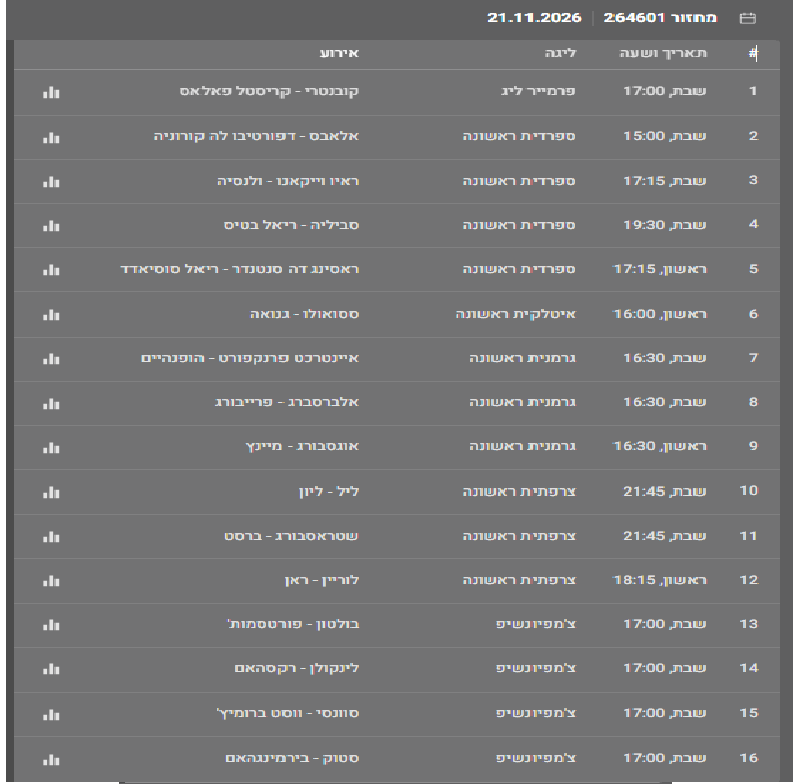
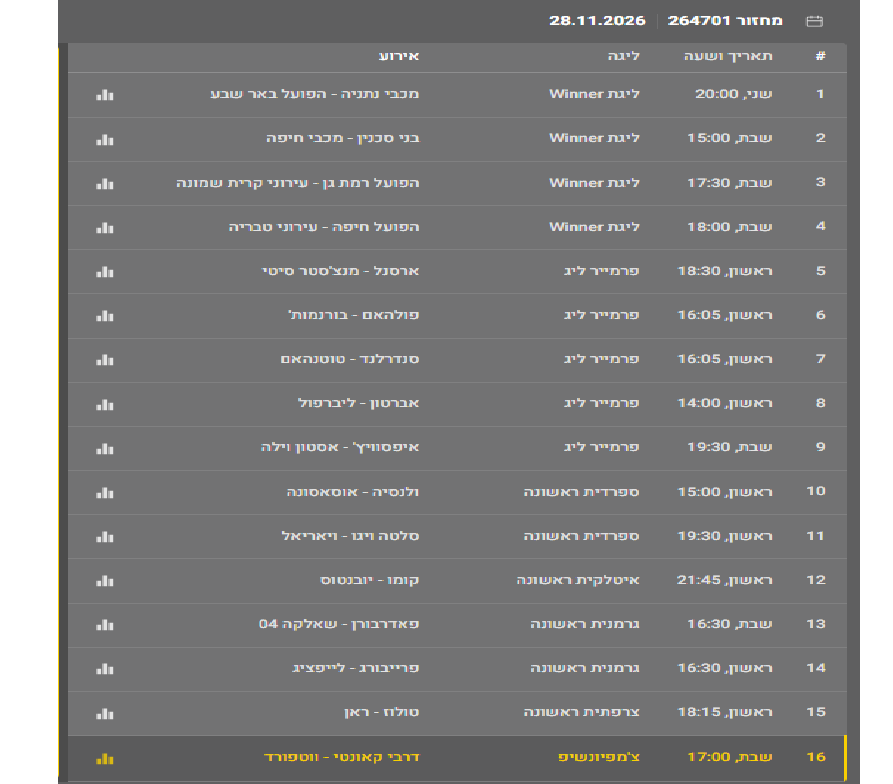
Update winwin slides with new fixtures round from games.txt

diff --git a/winwin/index.html b/winwin/index.html
@@ -141,113 +141,113 @@
 
         <section class="game-slide">
           <div class="game-title">משחק 1</div>
-          <div class="game-matchup">קובנטרי - קריסטל פאלאס</div>
-          <div class="game-body">קריסטל פאלאס מגיעה מהמעמד הגבוה יותר ובדרך כלל נהנית מסגל עמוק ואיכותי יותר. גם במשחק חוץ היא מסוגלת לשלוט בקצב ולייצר יותר מצבים. קובנטרי יריבה ראויה, אך פער האיכות נוטה לצד האורחת.</div>
+          <div class="game-matchup">מכבי נתניה - הפועל באר שבע</div>
+          <div class="game-body">באר שבע מגיעה בדרך כלל עם סגל עמוק יותר ויכולת גבוהה יותר ברוב העמדות. נתניה מסוגלת להקשות בבית, אך לאורך זמן היתרון האיכותי נוטה לצד האורחת.</div>
           <div class="game-recommendation">ההמלצה : 2</div>
         </section>
 
         <section class="game-slide">
           <div class="game-title">משחק 2</div>
-          <div class="game-matchup">אלאבס - דפורטיבו לה קורוניה</div>
-          <div class="game-body">אלאבס נהנית מיתרון ביתיות משמעותי ומגיעה מליגה ותחרותיות גבוהות יותר. דפורטיבו עדיין מנסה לבסס יציבות מול יריבות חזקות. לכן היתרון נמצא אצל המארחת.</div>
-          <div class="game-recommendation">ההמלצה : 1</div>
-        </section>
-
-        <section class="game-slide">
-          <div class="game-title">משחק 3</div>
-          <div class="game-matchup">ראיו וייקאנו - ולנסיה</div>
-          <div class="game-body">שתי קבוצות שיכולות לבטל זו את זו מבחינה טקטית. ראיו חזקה בביתה, אך ולנסיה מספיק איכותית כדי להימנע מהפסד. לכן התיקו נראה תרחיש סביר מאוד.</div>
-          <div class="game-recommendation">ההמלצה : 1X</div>
-        </section>
-
-        <section class="game-slide">
-          <div class="game-title">משחק 4</div>
-          <div class="game-matchup">סביליה - ריאל בטיס</div>
-          <div class="game-body">מדובר בדרבי טעון שבו לרוב פערי האיכות פחות משמעותיים. סביליה נהנית מהביתיות, אך משחקים כאלה נוטים להיות שקולים וזהירים. קשה לראות ניצחון חוץ ברור.</div>
-          <div class="game-recommendation">ההמלצה : 1X</div>
-        </section>
-
-        <section class="game-slide">
-          <div class="game-title">משחק 5</div>
-          <div class="game-matchup">ראסינג סנטנדר - ריאל סוסיאדד</div>
-          <div class="game-body">לסוסיאדד סגל איכותי ומאוזן יותר. היא רגילה להתמודד ברמות הגבוהות של הכדורגל הספרדי ומחזיקה יתרון מקצועי ברוב העמדות. לכן סימון החוץ עדיף.</div>
+          <div class="game-matchup">בני סכנין - מכבי חיפה</div>
+          <div class="game-body">חיפה עדיפה כמעט בכל פרמטר מקצועי ומחזיקה בסגל רחב ומנוסה יותר. אם תשמור על ריכוז, היא אמורה לקחת את מלוא הנקודות.</div>
           <div class="game-recommendation">ההמלצה : 2</div>
         </section>
 
         <section class="game-slide">
+          <div class="game-title">משחק 3</div>
+          <div class="game-matchup">הפועל רמת גן - קרית שמונה</div>
+          <div class="game-body">פערי הרמות והניסיון משחקים לטובת קרית שמונה. במשחקי גביע והכרעה יש לה בדרך כלל יתרון באיכות הסגל.</div>
+          <div class="game-recommendation">ההמלצה : 2</div>
+        </section>
+
+        <section class="game-slide">
+          <div class="game-title">משחק 4</div>
+          <div class="game-matchup">הפועל חיפה - עירוני טבריה</div>
+          <div class="game-body">להפועל חיפה יתרון ביתיות וניסיון בליגה הבכירה. טבריה יכולה להיות יריבה עיקשת, אך המארחת נראית עדיפה.</div>
+          <div class="game-recommendation">ההמלצה : 1</div>
+        </section>
+
+        <section class="game-slide">
+          <div class="game-title">משחק 5</div>
+          <div class="game-matchup">ארסנל - מנצ'סטר סיטי</div>
+          <div class="game-body">מפגש צמרת קלאסי בין שתי קבוצות מהחזקות באירופה. ארסנל חזקה מאוד בבית, אך סיטי מסוגלת להוציא נקודות מכל מגרש.</div>
+          <div class="game-recommendation">ההמלצה : 1X</div>
+        </section>
+
+        <section class="game-slide">
           <div class="game-title">משחק 6</div>
-          <div class="game-matchup">ססואולו - גנואה</div>
-          <div class="game-body">ססואולו בדרך כלל משחקת כדורגל יוזם יותר בביתה. גנואה יריבה עקשנית שמסוגלת לחלץ נקודות גם בחוץ. לכן מומלץ לגבות את ניצחון הבית בתיקו.</div>
+          <div class="game-matchup">פולהאם - בורנמות'</div>
+          <div class="game-body">שתי קבוצות ברמה דומה יחסית ולכן קשה לזהות פייבוריט ברור. הביתיות מעניקה יתרון קל לפולהאם אך תיקו בהחלט בא בחשבון.</div>
           <div class="game-recommendation">ההמלצה : 1X</div>
         </section>
 
         <section class="game-slide">
           <div class="game-title">משחק 7</div>
-          <div class="game-matchup">איינטרכט פרנקפורט - הופנהיים</div>
-          <div class="game-body">פרנקפורט חזקה מאוד במשחקי הבית שלה ומייצרת לחץ התקפי מתמשך. הופנהיים מסוגלת להבקיע, אך לרוב מתקשה מול יריבות איכותיות בחוץ.</div>
-          <div class="game-recommendation">ההמלצה : 1</div>
+          <div class="game-matchup">סנדרלנד - טוטנהאם</div>
+          <div class="game-body">לטוטנהאם יתרון משמעותי באיכות ובהתקפה. אם תשחק ברמתה הרגילה היא אמורה לנצח.</div>
+          <div class="game-recommendation">ההמלצה : 2</div>
         </section>
 
         <section class="game-slide">
           <div class="game-title">משחק 8</div>
-          <div class="game-matchup">אלברסברג - פרייבורג</div>
-          <div class="game-body">פרייבורג מחזיקה ניסיון ואיכות ברמה גבוהה יותר. גם בחוץ היא מסוגלת לנהל משחק בצורה אחראית ולנצל טעויות. היתרון המקצועי נוטה אליה.</div>
+          <div class="game-matchup">אברטון - ליברפול</div>
+          <div class="game-body">למרות שמדובר בדרבי טעון, לליברפול איכות גבוהה יותר כמעט בכל עמדה. משחקים כאלה לעיתים צמודים, אך היתרון עדיין אצל האורחת.</div>
           <div class="game-recommendation">ההמלצה : 2</div>
         </section>
 
         <section class="game-slide">
           <div class="game-title">משחק 9</div>
-          <div class="game-matchup">אוגסבורג - מיינץ</div>
-          <div class="game-body">זהו אחד המשחקים המאוזנים במחזור. שתי הקבוצות מציגות לעיתים חוסר יציבות ולכן קשה להכריע ביניהן. מיינץ מעט עדיפה אך התיקו בהחלט בא בחשבון.</div>
-          <div class="game-recommendation">ההמלצה : X2</div>
+          <div class="game-matchup">איפסוויץ' - אסטון וילה</div>
+          <div class="game-body">אסטון וילה מציגה בדרך כלל כדורגל איכותי יותר ומחזיקה בסגל עמוק יותר. איפסוויץ' תילחם, אך הנטייה היא לניצחון חוץ.</div>
+          <div class="game-recommendation">ההמלצה : 2</div>
         </section>
 
         <section class="game-slide">
           <div class="game-title">משחק 10</div>
-          <div class="game-matchup">ליל - ליון</div>
-          <div class="game-body">ליל נחשבת לקבוצה חזקה מאוד בביתה וממעטת לאבד שם נקודות. ליון מסוגלת להפתיע, אך בתקופה רגילה יתרון הביתיות מעניק לליל עדיפות.</div>
+          <div class="game-matchup">ולנסיה - אוסאסונה</div>
+          <div class="game-body">ולנסיה נהנית מיתרון ביתיות וממגרש ביתי לא פשוט ליריבות. אוסאסונה תחרותית, אך המארחת מקבלת עדיפות.</div>
           <div class="game-recommendation">ההמלצה : 1</div>
         </section>
 
         <section class="game-slide">
           <div class="game-title">משחק 11</div>
-          <div class="game-matchup">שטראסבורג - ברסט</div>
-          <div class="game-body">שטראסבורג נהנית מתמיכה ביתית חזקה ומגיעה בדרך כלל מוכנה למשחקים מסוג זה. ברסט מסוכנת, אך הביתיות נותנת יתרון למארחת.</div>
-          <div class="game-recommendation">ההמלצה : 1</div>
+          <div class="game-matchup">סלטה ויגו - ויאריאל</div>
+          <div class="game-body">זהו אחד המשחקים המאוזנים במחזור. ויאריאל מעט איכותית יותר על הנייר, אך לסלטה יש יתרון ביתיות ולכן הכיסוי המתבקש כולל גם תיקו.</div>
+          <div class="game-recommendation">ההמלצה : X2</div>
         </section>
 
         <section class="game-slide">
           <div class="game-title">משחק 12</div>
-          <div class="game-matchup">לוריין - ראן</div>
-          <div class="game-body">ראן מחזיקה סגל עמוק ואיכותי יותר כמעט בכל חוליה. גם בחוץ היא יודעת לייצר מצבים ולהכתיב קצב משחק. לכן סימון החוץ עדיף.</div>
+          <div class="game-matchup">קומו - יובנטוס</div>
+          <div class="game-body">יובנטוס עדיפה משמעותית מבחינת איכות, ניסיון ועומק סגל. איבוד נקודות כאן ייחשב הפתעה.</div>
           <div class="game-recommendation">ההמלצה : 2</div>
         </section>
 
         <section class="game-slide">
           <div class="game-title">משחק 13</div>
-          <div class="game-matchup">בולטון - פורטסמות'</div>
-          <div class="game-body">בולטון בדרך כלל מציגה יציבות גבוהה במשחקי הבית שלה. פורטסמות' יריבה חזקה, אך המגרש הביתי עשוי להכריע את ההתמודדות.</div>
+          <div class="game-matchup">פאדרבורן - שאלקה 04</div>
+          <div class="game-body">פאדרבורן נראית יציבה יותר במפגש הזה ומקבלת גם את יתרון הבית. שאלקה עדיין מסוגלת להפתיע אך אינה הבחירה המועדפת.</div>
           <div class="game-recommendation">ההמלצה : 1</div>
         </section>
 
         <section class="game-slide">
           <div class="game-title">משחק 14</div>
-          <div class="game-matchup">לינקולן - רקסהאם</div>
-          <div class="game-body">רקסהאם מחזיקה סגל תחרותי ושאפתני מאוד. עם זאת, משחק חוץ מול לינקולן עלול להיות מורכב ולכן כדאי לגבות גם בתיקו.</div>
+          <div class="game-matchup">פרייבורג - לייפציג</div>
+          <div class="game-body">לייפציג איכותית יותר, אך משחקי החוץ מול פרייבורג נוטים להיות מורכבים. לכן כדאי לכסות גם אפשרות של תיקו.</div>
           <div class="game-recommendation">ההמלצה : X2</div>
         </section>
 
         <section class="game-slide">
           <div class="game-title">משחק 15</div>
-          <div class="game-matchup">סוונסי - ווסט ברומיץ'</div>
-          <div class="game-body">ווסט ברומיץ' נוטה להיות מאורגנת ויעילה יותר. סוונסי מסוגלת להקשות בביתה, אך האיכות הכוללת של האורחת מעניקה לה יתרון.</div>
-          <div class="game-recommendation">ההמלצה : 2</div>
+          <div class="game-matchup">טולוז - ראן</div>
+          <div class="game-body">טולוז קבוצה ביתית לא פשוטה וראן נוטה לחוסר יציבות במשחקים מסוימים. בשל האיזון היחסי, גם תיקו הוא תרחיש סביר.</div>
+          <div class="game-recommendation">ההמלצה : 1X</div>
         </section>
 
         <section class="game-slide">
           <div class="game-title">משחק 16</div>
-          <div class="game-matchup">סטוק - בירמינגהאם</div>
-          <div class="game-body">שתי קבוצות שנוטות להרבות במשחקים צמודים. סטוק נהנית מהביתיות אך בירמינגהאם מסוגלת לקחת נקודות. לכן הכפול נראה הפתרון הנכון.</div>
+          <div class="game-matchup">דרבי קאונטי - ווטפורד</div>
+          <div class="game-body">המשחק נראה שקול למדי והביתיות עשויה להיות גורם משמעותי. לכן הבחירה היא נטייה למארחת עם גיבוי לתיקו.</div>
           <div class="game-recommendation">ההמלצה : 1X</div>
         </section>
 
